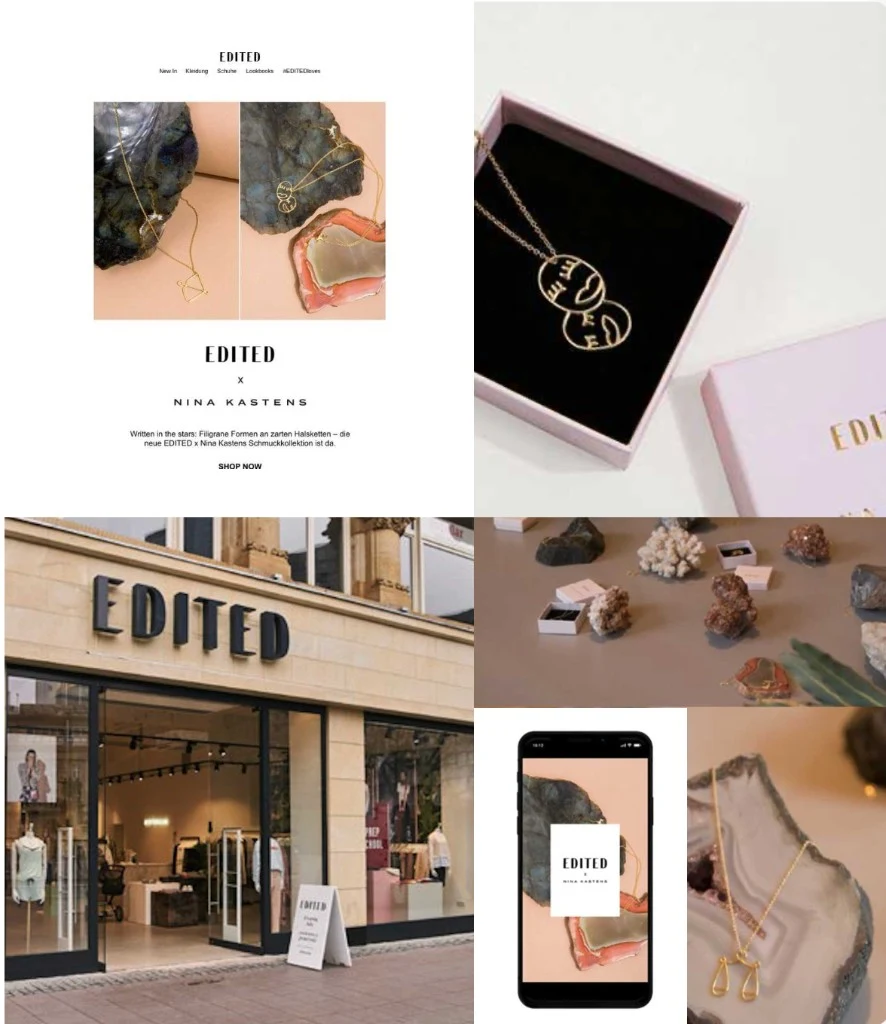
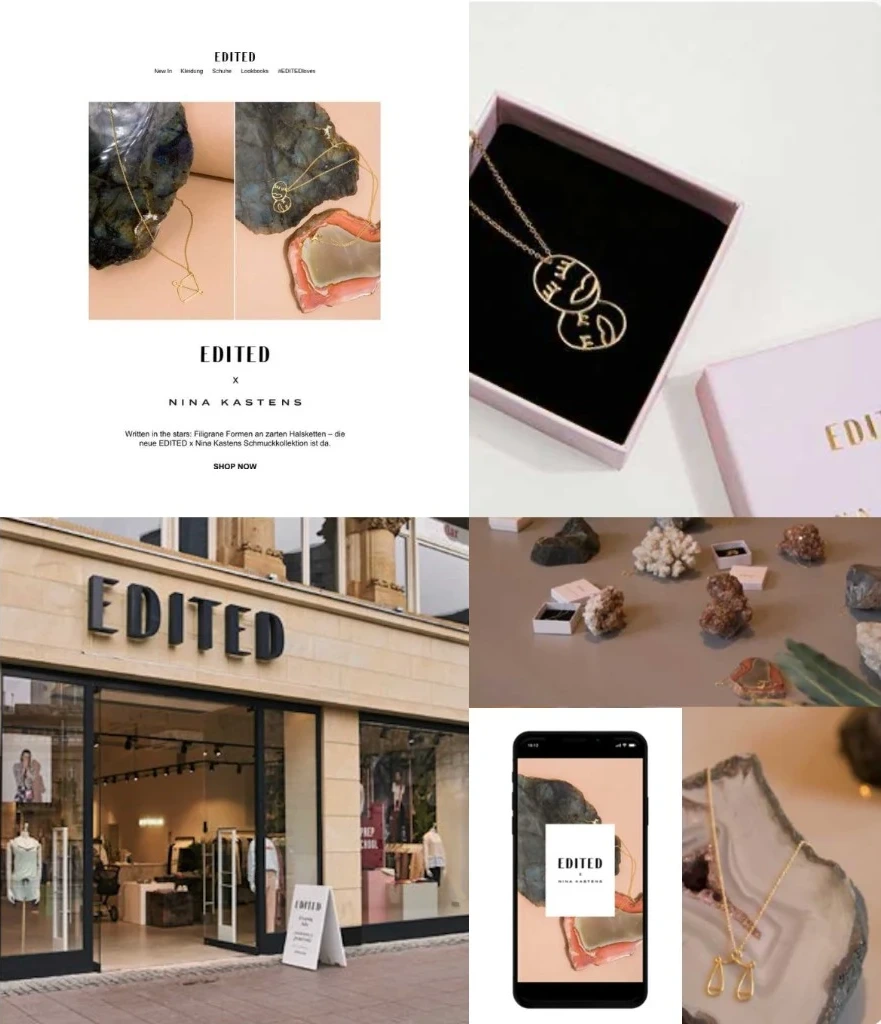
Reorder main cases and restore Jovana as the closer.
Put Carhartt shopping second, Help Center before VW/ADAS, drop EDITED store-openings asset, and bring media titles back onto desktop tiles.

diff --git a/src/data/cases.js b/src/data/cases.js
@@ -97,80 +97,6 @@ export const cases = [
     }
   },
   {
-    id: 2,
-    slug: "hellagutmann-adas-system-guide",
-    title: "DASHBOARD DESIGN ADAS SYSTEM GUIDE",
-    caseStudyLabel: "DAYONE × HELLA GUTMANN CASE STUDY",
-    category: "PRODUCT DESIGN",
-    year: "2024",
-    role: "UX DESIGNER",
-    hideTitleTag: true,
-    tags: ["IN-HOUSE AT DAYONE", "HELLA GUTMANN", "AUTOMOTIVE", "PRODUCT DESIGN"],
-    description: "Guided ADAS calibration — workshop hardware and software, step by step.",
-    challenge: "High cognitive load. Legacy flow had no progress structure — interruptions broke documentation.",
-    impact: "Fewer errors and recalibrations through clearer steps and documentation.",
-    outcome: "A guided workflow that protects service quality and workshop time.",
-    learning: "Solve garage problems — not only business assumptions.",
-    image: "/images/01_hellagutmann/sliderImage_hellagutmann_dashboard_hero.webp",
-    detailImage1: "/images/01_hellagutmann/fahrzeug_auswaehlen_basis_default_1280-800.webp",
-    detailImage2: "/images/01_hellagutmann/hella_gutmann_protocol_2.webp",
-    detailImage3: "/images/01_hellagutmann/hellagutmann_dashboard_adas_guide_calibration.webp",
-    imageTitles: ['Dashboard hero', 'Wireframe – vehicle selection', 'Step-by-step guide', 'Calibration guide'],
-    team: { 
-      title: "DAYONE X HELLAGUTMANN", 
-      members: ["Consultancy and Guidance Christopher G. (Lead)", "UX & Strategy Annemarie S.", "UI Bean D.", "PM Silviana A."] 
-    }
-  },
-  {
-    id: 3,
-    slug: "volkswagen-id-test-drive",
-    title: "VOLKSWAGEN ID. MODELS TEST DRIVE",
-    caseStudyLabel: "DAYONE × VW ID. TEST DRIVE CASE STUDY",
-    category: "PRODUCT DESIGN",
-    year: "2022–2025",
-    role: "PRODUCT DESIGNER / UX",
-    hideTitleTag: true,
-    tags: ["IN-HOUSE AT DAYONE", "VW", "AUTOMOTIVE", "PRODUCT DESIGN"],
-    description: "VW ID. test-drive booking — search to dealership without legacy weight.",
-    challenge: "EV adoption needed a fast, measurable path from local search to the dealer.",
-    impact: "Local intent into verified leads — agile landings, clearer SEO, tighter booking.",
-    outcome: "German market entry — search to the driver’s seat.",
-    learning: "Sometimes the strongest UX move is an architectural shortcut.",
-    image: "/images/03_vw-testdrive_07/IDModelleProbefahren-copy.webp",
-    detailImage1: "/images/03_vw-testdrive_07/wireframe_form_test-drive.webp",
-    detailImage2: "/images/03_vw-testdrive_07/SLiderImage_IDModelleProbefahren.webp",
-    imageTitles: ['ID. test drive landing', 'Wireframe – booking form', 'ID. models – lifestyle'],
-    team: {
-      title: "VOLKSWAGEN x DAYONE",
-      members: ["VW PO Steffen H.", "PM Max M.", "UX/Product Design Annemarie S."] 
-    }
-  },
-  {
-    id: 4,
-    slug: "carhartt-wip-helpcenter",
-    title: "CARHARTT-WIP",
-    caseStudyLabel: "CARHARTT-WIP HELPCENTER CASE STUDY",
-    category: "PRODUCT DESIGN",
-    year: "2021/22",
-    role: "PRODUCT DESIGNER",
-    hideTitleTag: true,
-    tags: ["IN-HOUSE AT CARHARTT-WIP", "PRODUCT DESIGN", "E-COMMERCE"],
-    description: "Self-service Help Center for Carhartt-WIP — on-brand support people can solve alone.",
-    challenge: "Growth flooded support. Old structure couldn’t keep up in peak seasons.",
-    impact: "Self-service IA cut ticket load without diluting the brand.",
-    outcome: "Modular Help Center — clearer nav and search, higher deflection.",
-    learning: "Strong IA moves operational KPIs directly.",
-    image: "/images/04_carhartt-wip-helpcenter_03/carhartt-helpcenter-hero.webp",
-    detailImage1: "/images/04_carhartt-wip-helpcenter_03/carhartt-helpcenter-live.webp",
-    detailImage2: "/images/04_carhartt-wip-helpcenter_03/carhartt-helpcenter-userflow.webp",
-    detailImage3: "/images/04_carhartt-wip-helpcenter_03/carhartt-helpcenter-designflow.webp",
-    imageTitles: ['Help center hero', 'Live help desk', 'User flow', 'Design flow'],
-    team: {
-      title: "CARHARTT-WIP",
-      members: ["Digital Design Lead Lutz E.", "Product Designer Annemarie S."] 
-    }
-  },
-  {
     id: 5,
     slug: "carhartt-wip-shopping-journey",
     title: "CARHARTT-WIP",
@@ -200,37 +126,6 @@ export const cases = [
     team: { title: "CARHARTT-WIP", members: ["Digital Design Lead Lutz E.", "Product Designer Annemarie S."] }
 },
   {
-    id: 6,
-    slug: "conic-rose",
-    title: "CONIC ROSE",
-    caseStudyLabel: "CONIC ROSE CASE STUDY",
-    category: "VISUAL IDENTITY / ART",
-    isPrivate: true,
-    archived: true,
-    year: "2019",
-    role: "ART DIRECTOR",
-    hideTitleTag: true,
-    tags: ["FREELANCE FOR CONIC ROSE", "ARTWORK", "VINYL COVER"],
-    description: "Visual identity for Conic Rose — filmic cover language from Berlin’s cut and thrust.",
-    challenge: "Tracks still evolving — no fixed tracklist, only the emotional core.",
-    impact: "Textures that echo the music without illustrating single songs.",
-    outcome: "A home for the sound — organic, slightly forlorn, Berlin.",
-    image: "/images/05_conic-rose-artdirection_05/conicrose-slider.webp",
-    detailImage1: "/images/05_conic-rose-artdirection_05/how_paint_waterclour_straw.webp",
-    detailImage2: "/images/05_conic-rose-artdirection_05/how_sunlight_print.webp",
-    detailImage3: "/images/05_conic-rose-artdirection_05/draft_b_cr.webp",
-    detailImageMobile1: "/images/05_conic-rose-artdirection_05/how_paint_waterclour_straw.webp",
-    detailImageMobile2: "/images/05_conic-rose-artdirection_05/how_sunlight_print.webp",
-    detailImageMobile4: "/images/05_conic-rose-artdirection_05/draft_3.webp",
-    detailImageMobile5: "/images/05_conic-rose-artdirection_05/finalconicrosedesign.webp",
-    detailImage4: "/images/05_conic-rose-artdirection_05/draft_3.webp",
-    detailImage5: "/images/05_conic-rose-artdirection_05/draft_conicr.webp",
-    detailImage6: "/images/05_conic-rose-artdirection_05/finalconicrosedesign.webp",
-    imageFormats: ['landscape', 'portrait', 'portrait', 'landscape', 'landscape', 'landscape', 'landscape'],
-    imageTitles: ['Cover', 'Watercolour process', 'Sunlight print', 'Draft version', 'Draft', 'Another draft', 'Final artwork'],
-    team: { title: "CONIC ROSE", collaboration: "Art Direction by me, in collaboration with the band."} 
-  },
-  {
     id: 7,
     slug: "edited-the-label",
     title: "EDITED",
@@ -255,14 +150,13 @@ export const cases = [
     detailImage7: "/images/06_edited_digital-branding_06/edited-x-nina-kastens-written-in-the-stars.webp",
     detailImage8: "/images/06_edited_digital-branding_06/edited-new-sport-collection.webp",
     detailImage9: "/images/06_edited_digital-branding_06/edited-stretch-sweat-pirouette.webp",
-    detailImage10: "/images/06_edited_digital-branding_06/storeopenings.webp",
-    detailImage11: "/images/06_edited_digital-branding_06/storeeventconceptdesign.webp",
-    detailImage12: "/images/06_edited_digital-branding_06/sustainabilityconceptpackahgingretail.webp",
-    detailImage13: "/images/06_edited_digital-branding_06/lumagrothlaunch_webandapp.webp",
-    detailImage14: "/images/06_edited_digital-branding_06/launchvideoconcepts.webp",
-    detailImage15: "/images/06_edited_digital-branding_06/makingoflaunchevent.webp",
-    detailImage16: "/images/06_edited_digital-branding_06/edited-store-launch-munich.webp",
-    detailImage17: "/images/06_edited_digital-branding_06/Editedpaper3.webp",
+    detailImage10: "/images/06_edited_digital-branding_06/storeeventconceptdesign.webp",
+    detailImage11: "/images/06_edited_digital-branding_06/sustainabilityconceptpackahgingretail.webp",
+    detailImage12: "/images/06_edited_digital-branding_06/lumagrothlaunch_webandapp.webp",
+    detailImage13: "/images/06_edited_digital-branding_06/launchvideoconcepts.webp",
+    detailImage14: "/images/06_edited_digital-branding_06/makingoflaunchevent.webp",
+    detailImage15: "/images/06_edited_digital-branding_06/edited-store-launch-munich.webp",
+    detailImage16: "/images/06_edited_digital-branding_06/Editedpaper3.webp",
     imageTitles: [
       'Hero',
       'Launch before / after',
@@ -274,7 +168,6 @@ export const cases = [
       'EDITED x Nina Kastens — Written in the Stars',
       'New Sport Collection',
       'Stretch. Sweat. Pirouette',
-      'Store openings',
       'Store event concept',
       'Sustainability packaging',
       'Luma Grothe Launch',
@@ -327,7 +220,81 @@ export const cases = [
       members: ["Relaunch Lead: Franziska N.", "Art Direction: Annemarie S.", "Execution: About You team"] 
     }
   },
-   {
+  {
+    id: 4,
+    slug: "carhartt-wip-helpcenter",
+    title: "CARHARTT-WIP",
+    caseStudyLabel: "CARHARTT-WIP HELPCENTER CASE STUDY",
+    category: "PRODUCT DESIGN",
+    year: "2021/22",
+    role: "PRODUCT DESIGNER",
+    hideTitleTag: true,
+    tags: ["IN-HOUSE AT CARHARTT-WIP", "PRODUCT DESIGN", "E-COMMERCE"],
+    description: "Self-service Help Center for Carhartt-WIP — on-brand support people can solve alone.",
+    challenge: "Growth flooded support. Old structure couldn’t keep up in peak seasons.",
+    impact: "Self-service IA cut ticket load without diluting the brand.",
+    outcome: "Modular Help Center — clearer nav and search, higher deflection.",
+    learning: "Strong IA moves operational KPIs directly.",
+    image: "/images/04_carhartt-wip-helpcenter_03/carhartt-helpcenter-hero.webp",
+    detailImage1: "/images/04_carhartt-wip-helpcenter_03/carhartt-helpcenter-live.webp",
+    detailImage2: "/images/04_carhartt-wip-helpcenter_03/carhartt-helpcenter-userflow.webp",
+    detailImage3: "/images/04_carhartt-wip-helpcenter_03/carhartt-helpcenter-designflow.webp",
+    imageTitles: ['Help center hero', 'Live help desk', 'User flow', 'Design flow'],
+    team: {
+      title: "CARHARTT-WIP",
+      members: ["Digital Design Lead Lutz E.", "Product Designer Annemarie S."] 
+    }
+  },
+  {
+    id: 3,
+    slug: "volkswagen-id-test-drive",
+    title: "VOLKSWAGEN ID. MODELS TEST DRIVE",
+    caseStudyLabel: "DAYONE × VW ID. TEST DRIVE CASE STUDY",
+    category: "PRODUCT DESIGN",
+    year: "2022–2025",
+    role: "PRODUCT DESIGNER / UX",
+    hideTitleTag: true,
+    tags: ["IN-HOUSE AT DAYONE", "VW", "AUTOMOTIVE", "PRODUCT DESIGN"],
+    description: "VW ID. test-drive booking — search to dealership without legacy weight.",
+    challenge: "EV adoption needed a fast, measurable path from local search to the dealer.",
+    impact: "Local intent into verified leads — agile landings, clearer SEO, tighter booking.",
+    outcome: "German market entry — search to the driver’s seat.",
+    learning: "Sometimes the strongest UX move is an architectural shortcut.",
+    image: "/images/03_vw-testdrive_07/IDModelleProbefahren-copy.webp",
+    detailImage1: "/images/03_vw-testdrive_07/wireframe_form_test-drive.webp",
+    detailImage2: "/images/03_vw-testdrive_07/SLiderImage_IDModelleProbefahren.webp",
+    imageTitles: ['ID. test drive landing', 'Wireframe – booking form', 'ID. models – lifestyle'],
+    team: {
+      title: "VOLKSWAGEN x DAYONE",
+      members: ["VW PO Steffen H.", "PM Max M.", "UX/Product Design Annemarie S."] 
+    }
+  },
+  {
+    id: 2,
+    slug: "hellagutmann-adas-system-guide",
+    title: "DASHBOARD DESIGN ADAS SYSTEM GUIDE",
+    caseStudyLabel: "DAYONE × HELLA GUTMANN CASE STUDY",
+    category: "PRODUCT DESIGN",
+    year: "2024",
+    role: "UX DESIGNER",
+    hideTitleTag: true,
+    tags: ["IN-HOUSE AT DAYONE", "HELLA GUTMANN", "AUTOMOTIVE", "PRODUCT DESIGN"],
+    description: "Guided ADAS calibration — workshop hardware and software, step by step.",
+    challenge: "High cognitive load. Legacy flow had no progress structure — interruptions broke documentation.",
+    impact: "Fewer errors and recalibrations through clearer steps and documentation.",
+    outcome: "A guided workflow that protects service quality and workshop time.",
+    learning: "Solve garage problems — not only business assumptions.",
+    image: "/images/01_hellagutmann/sliderImage_hellagutmann_dashboard_hero.webp",
+    detailImage1: "/images/01_hellagutmann/fahrzeug_auswaehlen_basis_default_1280-800.webp",
+    detailImage2: "/images/01_hellagutmann/hella_gutmann_protocol_2.webp",
+    detailImage3: "/images/01_hellagutmann/hellagutmann_dashboard_adas_guide_calibration.webp",
+    imageTitles: ['Dashboard hero', 'Wireframe – vehicle selection', 'Step-by-step guide', 'Calibration guide'],
+    team: { 
+      title: "DAYONE X HELLAGUTMANN", 
+      members: ["Consultancy and Guidance Christopher G. (Lead)", "UX & Strategy Annemarie S.", "UI Bean D.", "PM Silviana A."] 
+    }
+  },
+  {
     id: 13,
     slug: "berlinale-film-poster-jovana-reisinger",
     title: "BERLINALE FILM POSTER, FILM OF JOVANA REISINGER",
@@ -335,7 +302,6 @@ export const cases = [
     category: "ART DIRECTION / FILM",
     year: "2018",
     role: "ART DIRECTION",
-    archived: true,
     hideTitleTag: true,
     tags: ["FREELANCE FOR JOVANA REISINGER", "BERLINALE", "FILM POSTER", "ART DIRECTION"],
     description: "Berlinale 2018 key visual for Pretty Girls Don’t Lie — glamour and cliché in tension.",
@@ -352,7 +318,38 @@ export const cases = [
     },
     team: { title: "FILM BY JOVANA REISINGER", members: ["Director Jovana Reisinger", "Art Direction Annemarie S."] }
   },
-   {
+  {
+    id: 6,
+    slug: "conic-rose",
+    title: "CONIC ROSE",
+    caseStudyLabel: "CONIC ROSE CASE STUDY",
+    category: "VISUAL IDENTITY / ART",
+    isPrivate: true,
+    archived: true,
+    year: "2019",
+    role: "ART DIRECTOR",
+    hideTitleTag: true,
+    tags: ["FREELANCE FOR CONIC ROSE", "ARTWORK", "VINYL COVER"],
+    description: "Visual identity for Conic Rose — filmic cover language from Berlin’s cut and thrust.",
+    challenge: "Tracks still evolving — no fixed tracklist, only the emotional core.",
+    impact: "Textures that echo the music without illustrating single songs.",
+    outcome: "A home for the sound — organic, slightly forlorn, Berlin.",
+    image: "/images/05_conic-rose-artdirection_05/conicrose-slider.webp",
+    detailImage1: "/images/05_conic-rose-artdirection_05/how_paint_waterclour_straw.webp",
+    detailImage2: "/images/05_conic-rose-artdirection_05/how_sunlight_print.webp",
+    detailImage3: "/images/05_conic-rose-artdirection_05/draft_b_cr.webp",
+    detailImageMobile1: "/images/05_conic-rose-artdirection_05/how_paint_waterclour_straw.webp",
+    detailImageMobile2: "/images/05_conic-rose-artdirection_05/how_sunlight_print.webp",
+    detailImageMobile4: "/images/05_conic-rose-artdirection_05/draft_3.webp",
+    detailImageMobile5: "/images/05_conic-rose-artdirection_05/finalconicrosedesign.webp",
+    detailImage4: "/images/05_conic-rose-artdirection_05/draft_3.webp",
+    detailImage5: "/images/05_conic-rose-artdirection_05/draft_conicr.webp",
+    detailImage6: "/images/05_conic-rose-artdirection_05/finalconicrosedesign.webp",
+    imageFormats: ['landscape', 'portrait', 'portrait', 'landscape', 'landscape', 'landscape', 'landscape'],
+    imageTitles: ['Cover', 'Watercolour process', 'Sunlight print', 'Draft version', 'Draft', 'Another draft', 'Final artwork'],
+    team: { title: "CONIC ROSE", collaboration: "Art Direction by me, in collaboration with the band."} 
+  },
+  {
     id: 12,
     slug: "comma",
     title: "COMMA",
@@ -475,7 +472,6 @@ export const cases = [
     team: { title: "PLASTIC MEDIA", members: ["Creative Director Kira S.", "Lead Daniela B.", "Assistant Annemarie S."] }
   }
 ];
-
 export const getCasesByCategory = (category) => {
   if (!category || category === 'all') return cases;
   return cases.filter(caseItem => caseItem.category === category);

diff --git a/src/pages/DesktopCaseView.jsx b/src/pages/DesktopCaseView.jsx
@@ -348,13 +348,13 @@ const DesktopCaseView = ({ caseItem }) => {
                         loop
                         muted
                         playsInline
-                        className={`w-full h-full pointer-events-none ${usesContain(url) ? 'object-contain bg-white' : 'object-cover'}`}
+                        className={`w-full h-full pointer-events-none ${usesContain(url) ? 'object-contain bg-white' : 'object-cover scale-[1.03]'}`}
                       />
                     ) : (
                       <img
                         src={url}
                         alt=""
-                        className={`w-full h-full select-none pointer-events-none ${usesContain(url) ? 'object-contain bg-[#F5F3F0]' : 'object-cover'}`}
+                        className={`w-full h-full select-none pointer-events-none ${usesContain(url) ? 'object-contain bg-[#F5F3F0]' : 'object-cover scale-[1.03]'}`}
                         style={
                           caseItem.imagePositions?.[url]
                             ? { objectPosition: caseItem.imagePositions[url] }
@@ -364,19 +364,24 @@ const DesktopCaseView = ({ caseItem }) => {
                         }
                       />
                     )}
-                    {/* Radial gradient overlay - smooth gradient from 70% center to 10% edges, disappears on hover */}
+                    {/* Soft wash — no hard white edge; fades on hover */}
                     <div 
                       className="absolute inset-0 z-10 pointer-events-none opacity-100 group-hover:opacity-0 transition-opacity duration-500"
                       style={{
-                        background: 'radial-gradient(ellipse at center, rgba(255, 255, 255, 0.7) 0%, rgba(255, 255, 255, 0.1) 100%)'
+                        background: 'radial-gradient(ellipse at center, rgba(245, 243, 240, 0.35) 0%, rgba(245, 243, 240, 0.05) 100%)'
                       }}
                     />
+                    {url !== caseItem.image && getImageTitle(url, index) && (
+                      <div className="absolute bottom-0 left-0 pl-4 pb-4 z-20 pointer-events-none">
+                        <p
+                          className="text-base font-neue-semibold uppercase tracking-[1px]"
+                          style={{ color: imageTitleColors[index] || TITLE_ON_LIGHT }}
+                        >
+                          {getImageTitle(url, index)}
+                        </p>
+                      </div>
+                    )}
                   </div>
-                  {url !== caseItem.image && getImageTitle(url, index) && (
-                    <p className="mt-2 pl-1 text-base font-neue-semibold uppercase tracking-[1px] text-[#363C53] leading-snug">
-                      {getImageTitle(url, index)}
-                    </p>
-                  )}
                 </div>
               </motion.div>
             );
